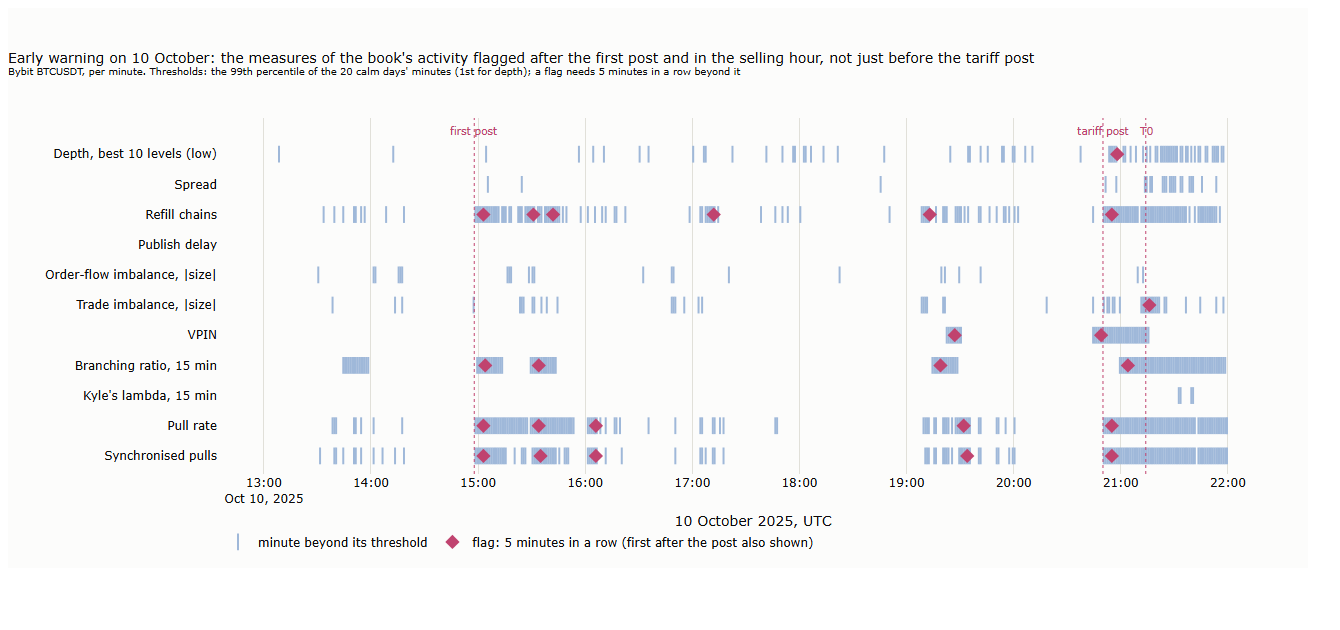
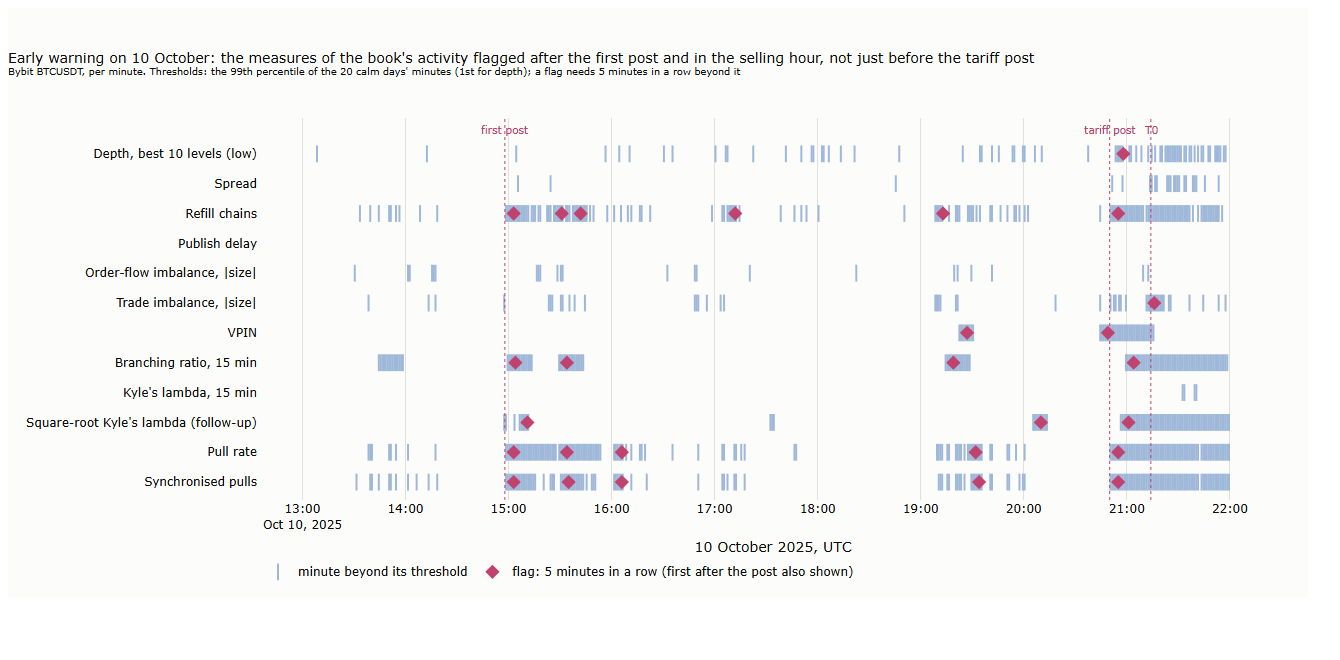
Lecture 20: square-root Kyle's lambda as a labelled follow-up
The per-BTC lambda falls with volume (exponent -0.46 on calm days), so it marks
quiet, not stress, and never flagged in the cascade. A square-root version is
independent of volume over short blocks, puts the cascade at the top at every
block length (5-120 min), and makes the two hours before the post ordinary
(H9c follow-up, p = 0.51). Robustness table in 4.3, row in the early-warning
table and figure 20_16, note in 2.2, Toth et al. (2011).

diff --git a/lectures/20-statistics-of-the-flow/lecture.md b/lectures/20-statistics-of-the-flow/lecture.md
@@ -88,7 +88,7 @@ The four updates show each case of the formula. A buyer takes 1.0 BTC at the bes
 
 With fading impact, twenty buys lift the mid by 12.7 ticks, not 20, and once orders turn mixed it drifts back to about 7: impact that fades is partly temporary. On the right, each order's own impact falls from 1 tick to 0.32 ticks over 300 orders, yet the response rises from 0.92 to 1.24 ticks: the orders that follow on the same side more than replace what fades. Seen from a maker, the price keeps moving after the fill, though no single trade's impact grows. In this example the two effects balance exactly, a fade of $`\ell^{-0.2}`$ against signs correlated as $`\ell^{-0.6}`$, and the price neither trends nor reverts. Bouchaud et al. (2004) found the bare impact on the Paris Bourse fading in this way and called it the central result of their paper: it is how a market whose order flow is predictable, since buys follow buys, can still have prices that are not.
 
-**What it misses.** It is linear and an average: one large order and one small one count the same, and so do calm hours and a cascade. Time runs in orders, not seconds: on 1 October, 300 taker orders took 20 seconds in the busiest hour and about 3 minutes in the quietest. And the model has no cancellations: it describes trades only, while Section 2.1 showed that much of the pressure comes from orders that never trade.
+**What it misses.** It is linear and an average: one large order and one small one count the same, and so do calm hours and a cascade. The same holds for Kyle's lambda, and there it matters: impact grows more slowly than the size traded, so a price per BTC falls whenever trading is heavy (Section 4.3). Time runs in orders, not seconds: on 1 October, 300 taker orders took 20 seconds in the busiest hour and about 3 minutes in the quietest. And the model has no cancellations: it describes trades only, while Section 2.1 showed that much of the pressure comes from orders that never trade.
 
 ### 2.3 VPIN
 
@@ -203,7 +203,7 @@ Section 2 showed each statistic on invented flows. This section measures them on
 - **H1, does the pressure on the book explain more than the trades? Holds.** Over 10 seconds, the order-flow imbalance explains 39% of the variance of the mid's change out of sample and the trade imbalance 17%. The difference, 22 percentage points, has a 95% interval of 17 to 26 points, and none of the 2,000 resamples went the other way. The order is the same over 1 second (31% against 15%) and over 60 seconds (33% against 27%), where the gap narrows: over a minute the trades catch up with the orders that were placed and pulled in it. Day by day, the book's pressure explains more on 43 of the 45 days. The two exceptions are 20 September, the quietest day of the sample, and 10 October.
 - **H2, does the pressure of the last ten seconds forecast the next ten? Holds, but the forecast is tiny.** The out-of-sample R² is 0.10% (0.04% to 0.17%): positive, and so too small to matter. One BTC of net pressure in the last ten seconds is followed by about 0.4 ticks in the same direction over the next ten, against about 3.8 ticks during the ten seconds in which it happened. Over 1 second the forecast explains 1.6%, over 60 seconds nothing (0.01%). On our sample the flow describes how the price moved far better than it tells where it will move.
 
-Three measurements were reported, not tested. **The best 10 levels** add little to the best alone: 41% against 39% over 10 seconds, less than on the US stocks of Xu, Gould and Howison (2019). **Depth**: per half hour, the price move per BTC of pressure falls with the size resting at the best, with a slope of −0.94 on the log scale, close to the −1 that Cont, Kukanov and Stoikov (2014) derived: a book twice as deep moves about half as far per BTC. **Kyle's lambda**, the move per BTC of net taker flow, had a median of 10 ticks ($1) per BTC per half hour, and it too falls with depth, but more slowly (slope −0.59).
+Three measurements were reported, not tested. **The best 10 levels** add little to the best alone: 41% against 39% over 10 seconds, less than on the US stocks of Xu, Gould and Howison (2019). **Depth**: per half hour, the price move per BTC of pressure falls with the size resting at the best, with a slope of −0.94 on the log scale, close to the −1 that Cont, Kukanov and Stoikov (2014) derived: a book twice as deep moves about half as far per BTC. **Kyle's lambda**, the move per BTC of net taker flow, had a median of 10 ticks ($1) per BTC per half hour, and it too falls with depth, but more slowly (slope −0.59). It also falls with the volume traded, which Section 4.3 shows matters for its use as a warning.
 
 The depth result explains part of the drop from in sample to out of sample, 56% to 39%. After 10 October the size at the best halved, from about 4 BTC to about 2, so the same pressure moved the price further than the slope fitted on the calm days predicts. **Follow-up:** fitted on 20 October itself, the order-flow imbalance explains 57%, against 52% with the in-sample slope.
 
@@ -289,7 +289,7 @@ Why the last trade's tail leans the other way, we have not established. One cand
 | Was there net selling on Binance in the hour before the post? | H8b | Net buying, +434 BTC | 0.85 | Fails (Section 4) |
 | Was trading unusually one-sided in the two hours before? | H9a | VPIN 0.255 against 0.191 | 0.018 | Fails, narrowly (Section 4) |
 | Was the market feeding on itself more than usual? | H9b | Branching ratio 0.94 against 0.88 | 0.13 | Fails (Section 4) |
-| Did each BTC traded move the price more than usual? | H9c | 2.2 against 6.7 ticks per BTC | 0.99 | Fails: it moved less (Section 4) |
+| Did each BTC traded move the price more than usual? | H9c | 2.2 against 6.7 ticks per BTC | 0.99 | Fails: lower, mostly an effect of measuring per BTC (Section 4) |
 
 <sub><b>How to read the table.</b> One row per test of [results/hypotheses.md](results/hypotheses.md); H8 and H9 are split into their parts, twelve tests in all; Section 4 presents H8 and H9. "p" is one-sided, from 2,000 resamples of days, a sign test over days, or, for H8 and H9, the rank of 10 October among the same clock windows of the other 44 days; "< 0.001" means no resample went against the hypothesis. The Benjamini-Hochberg procedure at 5% ranks the twelve p-values and accepts the k smallest if the k-th is at most k × 0.05 / 12. Three p-values are below 0.001; the fourth, H9a's 0.018, is above its limit of 0.017, so three hold and nine fail.</sub>
 
@@ -342,7 +342,7 @@ There were two posts that day. At 14:57:52 UTC a first post on Truth Social crit
 - **H8, was there net selling in the hour before the post? Fails, on both venues.** On Bybit takers bought a net 2,241 BTC, more than in 99.6% of the reference hours; on Binance they bought a net 434 BTC, more than in 85%.
 - **H9a, was trading unusually one-sided over the two hours? Fails, narrowly.** VPIN averaged 0.255, above 92% of reference windows (p = 0.018), which does not pass the correction (Section 3.6). VPIN stood above its usual range mostly during the selling hour, 18:50 to 19:50 (Section 4.3).
 - **H9b, was the market feeding on itself more than usual? Fails.** The branching ratio was 0.94, above 87% of reference windows (p = 0.13).
-- **H9c, did each BTC traded move the price more than usual? Fails, the other way.** Kyle's lambda was 2.2 ticks per BTC, below all but 1.5% of reference windows: in the two hours before the post, heavy flow moved the price less than usual.
+- **H9c, did each BTC traded move the price more than usual? Fails, the other way.** Kyle's lambda was 2.2 ticks per BTC, below all but 1.5% of reference windows. **Follow-up:** this is mostly how the measure is built. A price per BTC falls when much is traded (Section 4.3), and these two hours were busy. With the square-root version of Section 4.3, which does not fall with volume, the two hours before the post were ordinary: above 49% of the 527 reference windows (p = 0.51).
 
 **A burst of buying, reported and not tested.** Most of Bybit's net buying in the hour came in 46 seconds. Between 20:43:52 and 20:44:38 UTC, six minutes before the post, 15 taker buy orders of 50 to 122 BTC each, mostly exactly 100, bought 1,495 BTC, about $175 million, in 13,107 trades. Several came exactly 500 milliseconds apart, as from a program releasing slices on a timer. Each walked far up a book with only about 6 to 11 BTC in its best ten levels, paying on average $88 per BTC above the mid, and each time the book refilled within seconds, so the minute ended where it began, near $117,000. It was the largest minute of large taker buys in our 45 days, though not by far: other days reached 900 to 1,145 BTC. Without it, the hour still had net buying of about 750 BTC. Who bought, and who sold to them through the refilling orders, the data cannot say; nor whether the timing had anything to do with the post. We report it because it is the largest single feature of the hour before the news, and because a reader who looks at that hour will find it.
 
@@ -352,7 +352,7 @@ There were two posts that day. At 14:57:52 UTC a first post on Truth Social crit
 
 **The question.** A market maker who widens or pulls quotes when a measure turns extreme would like it to turn before the news, not after. The early-warning table asks this of every measure of Lectures 19 and 20 with one rule, fixed in advance: a measure **flags** when it stays beyond the 99th percentile of the calm days' minutes (below the 1st for depth) for five minutes in a row. The lead time is the time from the first flag to the post; the price of a warning is its false alarms, counted on the other 44 days.
 
-![Early warning on 10 October: minutes beyond the threshold and flags for eleven measures, 13:00 to 22:00 UTC](figures/20_16_early_warning.png)
+![Early warning on 10 October: minutes beyond the threshold and flags for eleven measures and one follow-up, 13:00 to 22:00 UTC](figures/20_16_early_warning.png)
 <sub><b>How to read the figure.</b> One row per measure, per minute, Bybit BTCUSDT. Light marks: minutes beyond the measure's threshold; red diamonds: flags, raised at the end of the fifth minute in a row; for each measure the first flag after the post is shown too. Dotted lines: the first post, the tariff post and T0. Every measure uses only data up to the end of its minute.</sub>
 
 | Measure | What it captures | Flags in the 6 hours before the post (UTC) | First flag after the post | False alarms per day: calm / after 10 Oct |
@@ -366,6 +366,7 @@ There were two posts that day. At 14:57:52 UTC a first post on Truth Social crit
 | VPIN | One-sided volume | 19:27, 20:49 | (already flagged) | 0.30 / 0.17 |
 | Branching ratio, 15 min | Trading feeding on itself | 15:04, 15:34, 19:19 | +14 min | 0.80 / 2.46 |
 | Kyle's lambda, 15 min | Price move per BTC traded | None | None | 1.10 / 4.00 |
+| Square-root Kyle's lambda, 15 min (follow-up) | Price move per square root of BTC traded | 15:11, 20:10 | +11 min | 1.10 / 10.12 |
 | Pull rate | Orders pulled from the best 20 levels | 15:03, 15:34, 16:06, 19:32 | +5 min | 0.70 / 4.29 |
 | Synchronised pulls | Pulls on both sides at once | 15:03, 15:35, 16:06, 19:34 | +5 min | 0.40 / 4.29 |
 
@@ -373,7 +374,21 @@ There were two posts that day. At 14:57:52 UTC a first post on Truth Social crit
 
 **Result.** By the rule fixed in advance, four measures flagged almost six hours before the post: refill chains, the pull rate, synchronised pulls and the branching ratio, first at 15:03 and 15:04. But that is five and six minutes after the first post, the earliest a five-minute rule can respond. They reacted to news; they did not anticipate it. The same four, joined by VPIN, flagged again between 19:13 and 19:34, during the selling hour. In the last hour before the post, only VPIN flagged, at 20:49, after the burst of buying at 20:44 had made the volume one-sided. Order-flow imbalance, trade imbalance, depth, spread and the exchange's delay did not flag before the post.
 
-After the post, refill chains and both pull measures flagged at the earliest possible moment, 20:55, nineteen minutes before T0; depth followed at 20:58 and the branching ratio at 21:04. A market maker using them would have stepped back before the worst of the fall, but after the news, not before it. Kyle's lambda never flagged, even in the cascade: its highest values come in quiet minutes, when a few trades move the price (its rank correlation with the last 15 minutes' volume is −0.60 on the calm days), so a high lambda marks quiet, not stress. The price of the warnings is visible in the last column. On calm days the activity measures raise up to one false alarm a day; after the cascade, when the market stayed busier and the book thinner, two to seven, and depth, whose threshold came from the deeper books before the cascade, was below it in about a quarter of all minutes.
+After the post, refill chains and both pull measures flagged at the earliest possible moment, 20:55, nineteen minutes before T0; depth followed at 20:58 and the branching ratio at 21:04. A market maker using them would have stepped back before the worst of the fall, but after the news, not before it. Kyle's lambda never flagged, even in the cascade: its highest values come in quiet minutes (its rank correlation with the last 15 minutes' volume is −0.60 on the calm days), so as built it marks quiet, not stress. The price of the warnings is visible in the last column. On calm days the activity measures raise up to one false alarm a day; after the cascade, when the market stayed busier and the book thinner, two to seven, and depth, whose threshold came from the deeper books before the cascade, was below it in about a quarter of all minutes.
+
+**Follow-up: a Kyle's lambda that does not fall with volume.** The per-BTC lambda is not wrong as arithmetic, but it has the wrong shape for a warning. Price impact grows more slowly than the size traded: on our 20 calm days, the 15-minute lambda fell with the volume traded as volume to the power −0.46, close to the −0.5 that a square-root law implies. For the total impact of one large order executed over time, such a law is among the best-documented regularities of markets (Tóth et al., 2011); ours is the same shape for all traders together over 15 minutes, not the same law. A price per BTC therefore falls whenever trading is heavy, and a cascade is when trading is heaviest. The correction follows from the shape: fit the change of the mid on the square root of the net taker flow, keeping its sign, instead of on the flow itself.
+
+| Block length | Lambda against volume, exponent | Rank correlation with volume: per BTC / square root | Highest percentile in the cascade: per BTC / square root | Highest percentile in the 2 hours before the post: per BTC / square root |
+|---|---|---|---|---|
+| 5 min | −0.46 | −0.55 / +0.03 | 98.1 / 100 | 95.3 / 98.7 |
+| 15 min | −0.46 | −0.60 / +0.07 | 98.6 / 100 | 83.4 / 99.0 |
+| 30 min | −0.44 | −0.61 / +0.13 | 99.6 / 100 | 40.2 / 95.8 |
+| 60 min | −0.39 | −0.57 / +0.22 | 95.0 / 100 | 9.6 / 78.8 |
+| 120 min | −0.36 | −0.57 / +0.31 | 98.8 / 100 | 3.3 / 80.0 |
+
+<sub><b>How to read the table.</b> Blocks of the given length on all 45 days, aligned so that one ends at 20:50 on 10 October; in each, the slope of the mid's change on the net taker flow over 10-second intervals (per BTC) or on its signed square root. Exponent: slope of log lambda on log volume across the calm days' blocks; −0.5 is what a square-root law implies. Percentiles are against the calm days' blocks; the cascade is 20:50 to 22:50 on 10 October.</sub>
+
+At every block length the square-root lambda puts the cascade at the top of the calm days' range, which the per-BTC lambda does not do reliably, and it no longer moves with volume over short blocks; over an hour or more the fitted exponent is shallower and some link with volume returns. As a warning, with the same rule as the other measures, it flagged at 15:11, thirteen minutes after the first post, at 20:10, forty minutes before the tariff post, and at 21:01, after it. Its price is the highest false-alarm rate in the table after the cascade, about ten a day, because the book stayed thin; and with about one false alarm a day on calm days, one flag in the six hours before the post is weak evidence of anything. It was added after the results, so it is a follow-up, not a test.
 
 On this sample, the flow and the book recorded the news quickly, within the five minutes the rule needs, and none of their measures anticipated the tariff post. One day, one venue and one event cannot show that warnings are impossible; they show that on this day, none of these measures gave one that the news itself did not.
 
@@ -382,6 +397,7 @@ Several questions remain open, and we invite independent tests:
 - What drove the selling between 18:50 and 19:50 UTC? A timed source, news or another market, would tell whether it was a reaction or an anticipation.
 - Who absorbed the 1,495 BTC bought at 20:44, and do bursts of this kind, sliced on a timer and absorbed by refilling orders, recur before other events? Data with order IDs (L3) would show whether one participant refilled.
 - Does a warning rule that adapts its thresholds to the current regime keep its false alarms down after a cascade without losing its speed?
+- Does the square-root lambda keep its link with stress and its independence from volume on other markets and periods, and what exponent fits there?
 - On how many other days do the activity measures react within five minutes to a timed post or a scheduled release? An event study over many posts would turn one day into a sample.
 
 *Section 5 follows.*
@@ -409,4 +425,5 @@ Several questions remain open, and we invite independent tests:
 - Mastodon (n.d.). lib/mastodon/snowflake.rb. github.com/mastodon/mastodon. — Mastodon's IDs: milliseconds since 1970 in the upper 48 bits (§4.1).
 - Silantyev, E. (2019). Order flow analysis of cryptocurrency markets. *Digital Finance* 1, 191–218. — trade and order-flow imbalance on the BitMEX bitcoin perpetual (§1).
 - Simpson, E. H. (1951). The interpretation of interaction in contingency tables. *Journal of the Royal Statistical Society, Series B* 13(2), 238–241. — Simpson's paradox (§3.5).
+- Tóth, B., Lempérière, Y., Deremble, C., de Lataillade, J., Kockelkoren, J. and Bouchaud, J.-P. (2011). Anomalous price impact and the critical nature of liquidity in financial markets. *Physical Review X* 1(2), 021006. — the square-root law of impact (§4.3).
 - Xu, K., Gould, M. D. and Howison, S. D. (2019). Multi-level order-flow imbalance in a limit order book. *Market Microstructure and Liquidity* 4(3–4), 1950011. — order-flow imbalance over several levels (§2.1).
